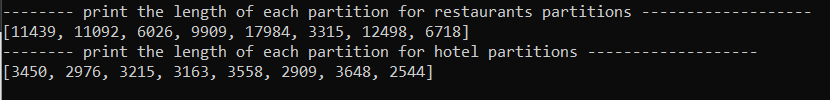
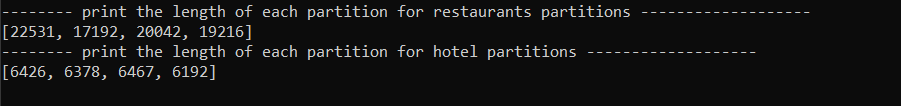
change num partitions

Changed region(s): [[0.0, 0.42, 0.9036, 0.81], [0.0, 0.03, 0.994, 0.21], [0.0, 0.21, 0.5723, 0.42]]

diff --git a/hashKey_final.py b/hashKey_final.py
@@ -27,10 +27,10 @@ def mapper2(line2):
     fields = line2.split('|')
     return Row(id=int(fields[0]), names=str(fields[1].encode("utf-8")), lat=float(fields[4]), lon=float(fields[5])) 
 
-lines = spark.sparkContext.textFile("../../data/doulkeridis/restaurants-ver1.txt", 10)
+lines = spark.sparkContext.textFile("./datasets/restaurants-ver1.txt", 20)
 restaurantsDataset = lines.map(mapper)
 
-line2 = spark.sparkContext.textFile("../../data/doulkeridis/hotels-ver1.txt", 10)
+line2 = spark.sparkContext.textFile("./datasets/hotels-ver1.txt", 20)
 hotelsDataset = line2.map(mapper2)
 
 # Infer the schema, and register the DataFrame as a table.
@@ -56,6 +56,11 @@ df_restaurants_name_mapper = restaurants_name_mapper.toDF()
 hotels_name_mapper = hotels.rdd.map(lambda x: (x[0],x[1], (int(int((x[2]+90)*180+x[3]) / 100)), x[2], x[3]))
 df_hotels_name_mapper = hotels_name_mapper.toDF()
 
+# print("RESTAURANTS")
+# print(df_restaurants_name_mapper.show())
+# print("HOTELS")
+# print(df_hotels_name_mapper.show())
+
 
 restaurants_with_columnId = df_restaurants_name_mapper.withColumn("dataFrameId", lit("a"))
 hotels_with_columnId = df_hotels_name_mapper.withColumn("dataFrameId", lit("b"))
@@ -75,26 +80,26 @@ hotels_ordered_by_Lat = hotels_with_columnId.orderBy("_4", ascending= True)
 #######################################################
 
 ########  Partitioning Restaurants ############
-restaurants_partitioned = restaurants_ordered_by_Lat.repartitionByRange(8, col("_4"))
+restaurants_partitioned = restaurants_ordered_by_Lat.repartitionByRange(4, col("_4"))
 # print(restaurants_partitioned.show())
 # print(restaurants_partitioned.rdd.getNumPartitions())
 # restaurants_partitioned.write.mode("overwrite").csv("apotelesmata/results.txt")
 
-# print("-------- print the length of each partition for restaurants partitions -------------------")
-# rdd_rests = restaurants_partitioned.rdd
-# print(rdd_rests.glom().map(len).collect())
+print("-------- print the length of each partition for restaurants partitions -------------------")
+rdd_rests = restaurants_partitioned.rdd
+print(rdd_rests.glom().map(len).collect())
 
 restaurants_partitioned_df = restaurants_partitioned.toDF("restaurantId", "restaurantName", "restaurantHashKey", "restaurantLat", "restaurantLon", "restaurantsDataFrameId")
 
 ########  Partitioning Hotels ############
-hotels_partitioned = hotels_ordered_by_Lat.repartitionByRange(8, col("_4"))
+hotels_partitioned = hotels_ordered_by_Lat.repartitionByRange(4, col("_4"))
 # print(hotels_partitioned.show())
 # print(hotels_partitioned.rdd.getNumPartitions())
 # hotels_partitioned.write.mode("overwrite").csv("apotelesmata/results.txt")
 
-# print("-------- print the length of each partition for hotel partitions -------------------")
-# rdd_hotels = hotels_partitioned.rdd
-# print(rdd_hotels.glom().map(len).collect())
+print("-------- print the length of each partition for hotel partitions -------------------")
+rdd_hotels = hotels_partitioned.rdd
+print(rdd_hotels.glom().map(len).collect())
 
 hotels_partitioned_df = hotels_partitioned.toDF("hotelId", "hotelName", "hotelHashKey", "hotelLat", "hotelLon", "hotelDataFrameId")
 

diff --git a/Seiriaka_Final_for_check.py b/Seiriaka_Final_for_check.py
@@ -71,7 +71,7 @@ hotels.write.mode("overwrite").csv("hotel_example.txt")
 
 distances_table = []
 for restaurant in restaurants.collect():
-      max_distance = 1.5
+      max_distance = 0.5
       R = 6373.0
       restaurant_name = restaurant[0]
       restaurant_lat = restaurant[1]
